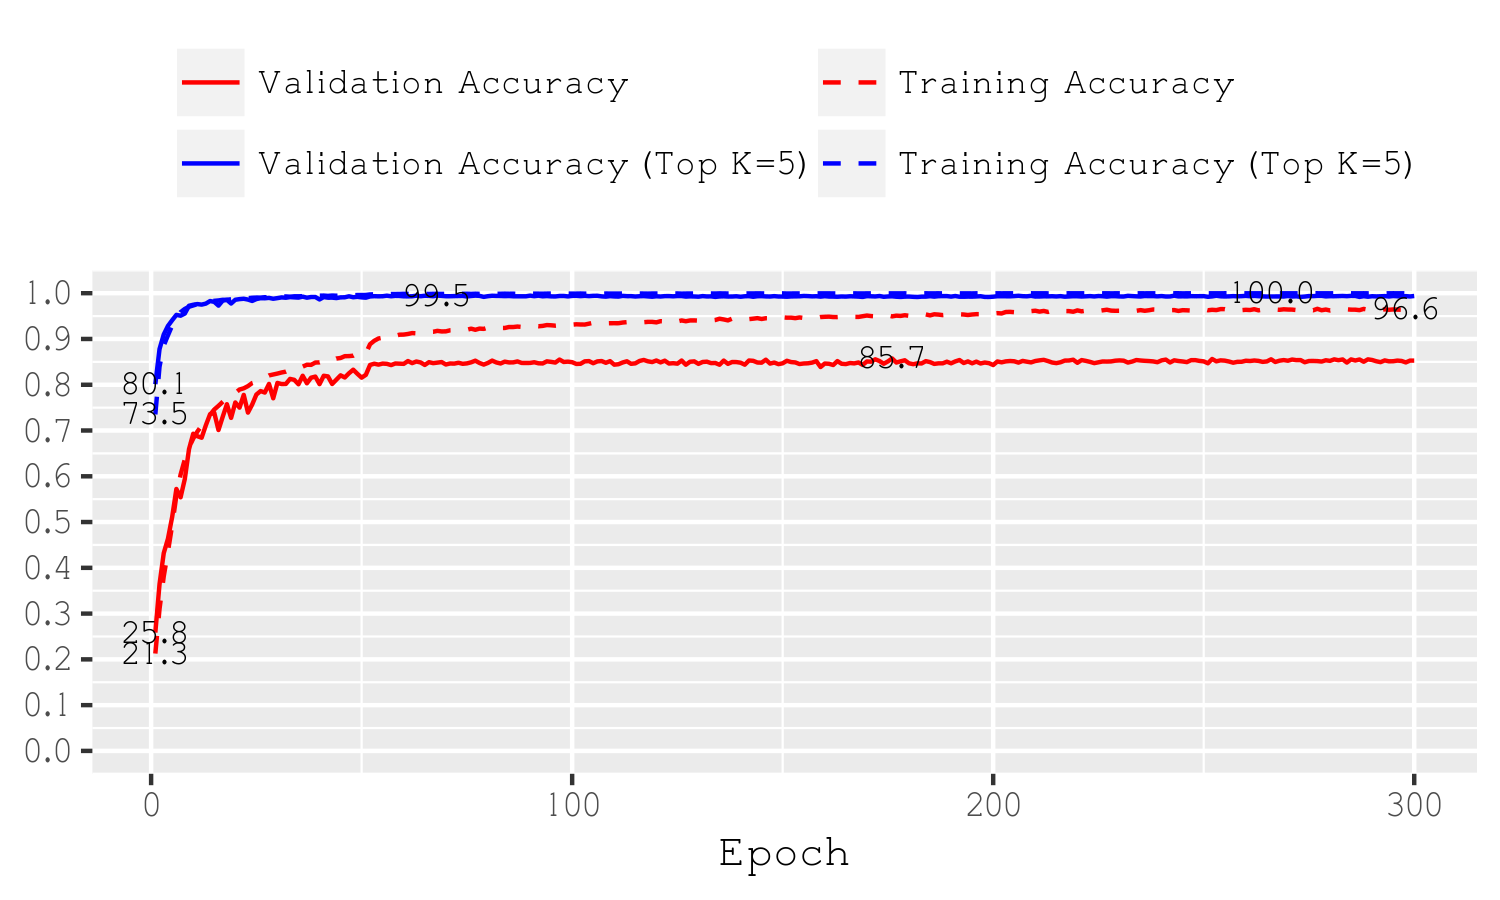
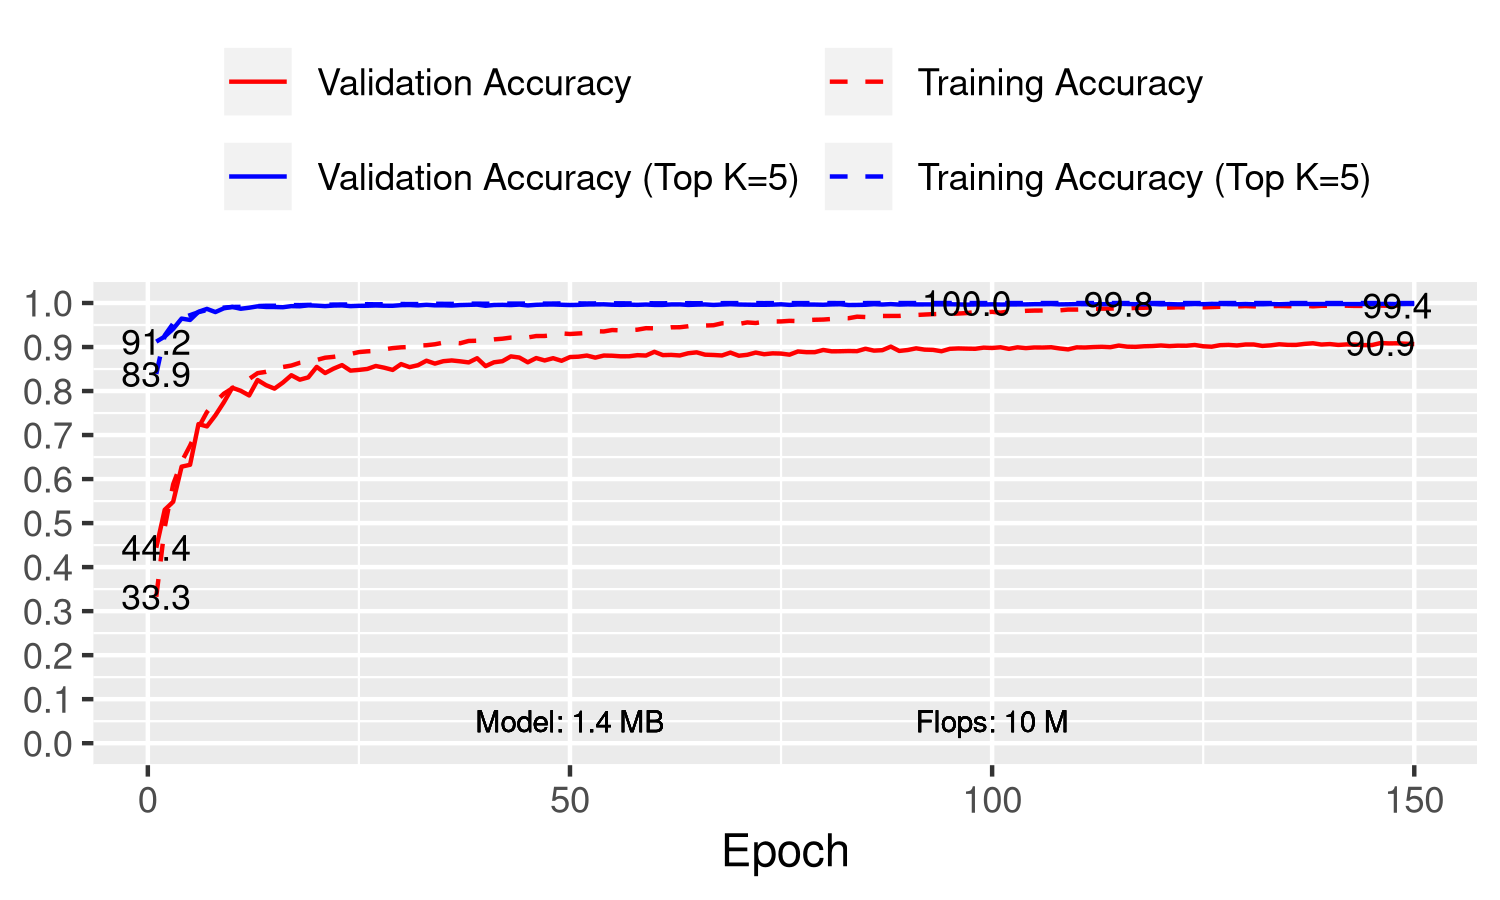
Update hyperparameter page (#4)
* Update hyperparameters.md

* update graphs

diff --git a/hyperparameters.md b/hyperparameters.md
@@ -1,47 +1,49 @@
+
+Please also check our extensive [experiments](Binary-Network-Results.md) page for better results and other network architectures.
+
 Some arguments explained:
 - `--data-path` should point to a directory where cifar10 is downloaded to (the first time), and later loaded from. If you get a corrupt ZIP-File Error you might have cancelled a previous download, simply delete the ZIP and restart. (only needed for CIFAR)
 - `--data-dir` should point to a directory with ImageNet record files, i.e. `imagenet-val.rec` and `imagenet-train.rec` (only needed for ImageNet); use the [official guide](https://mxnet.incubator.apache.org/tutorials/vision/large_scale_classification.html) or the guide from [Gluon-CV](https://gluon-cv.mxnet.io/build/examples_datasets/recordio.html#imagerecord-file-for-imagenet) to create these files
 - `--resume` and `--start-epoch` are to continue training from a previous checkpoint, i.e. `--resume checkpoint_epoch_10.params --start-epoch 10` lets you restart training at epoch 10 from that checkpoint. Note that both arguments are independent, and epoch must be set correctly manually.
 
-This should train a binary model with >85% Accuracy on CIFAR10:
+This should train a binary model with ~90% Accuracy on CIFAR10:
 ```
 python image_classification.py \
     --data-path "/path/to/cifar/" \
-    --batch-size 256 \
-    --bits 1 \
-    --bits-a 1 \
+    --augmentation low \
+    --batch-size 128 \
+    --clip-threshold 1.3 \
     --dataset cifar10 \
-    --epochs 300 \
+    --epochs 150 \
     --gpus 0 \
-    --initialization gaussian \
-    --lr 0.01 \
-    --lr-steps 50,200,250 \
+    --log-interval 50 \
+    --lr 0.02 \
+    --lr-mode cosine \
+    --mode hybrid \
     --model resnet18_v1 \
     --optimizer adam \
-    --prefix model \
-    --wd 0.0
+    --warmup-epochs 5
 ```
 ![acc](binary_cifar.png)
 
-This should train a binary model with ~47% Accuracy on ImageNet:
+This should train a binary model with ~59% Accuracy on ImageNet:
 ```
 python image_classification.py \
-    --data-dir "/path/to/imagenet/" \
-    --batch-size 128 \
-    --bits 1 \
-    --bits-a 1 \
+    --data-dir ~/.mxnet/datasets/imagenet/ \
+    --augmentation medium \
+    --batch-size 32 \
+    --clip-threshold 1.3 \
     --dataset imagenet \
-    --epochs 50 \
+    --epochs 120 \
+    --fp-downsample-sc \
     --gpus 0,1 \
-    --initialization gaussian \
-    --log-interval 20 \
-    --lr 0.001 \
-    --lr-steps 20,30,40 \
-    --model resnet18_v1 \
+    --lr 0.002 \
+    --lr-mode cosine \
+    --mode hybrid \
+    --model resnet18_e1 \
     --optimizer adam \
-    --prefix model \
-    --wd 0.0
+    --pool-downsample-sc \
+    --warmup-epochs 5
 ```
 ![acc](binary_imagenet.png)
 
-Please check our extensive [experiments](Binary-Network-Results.md) page for better results and other network architectures.
